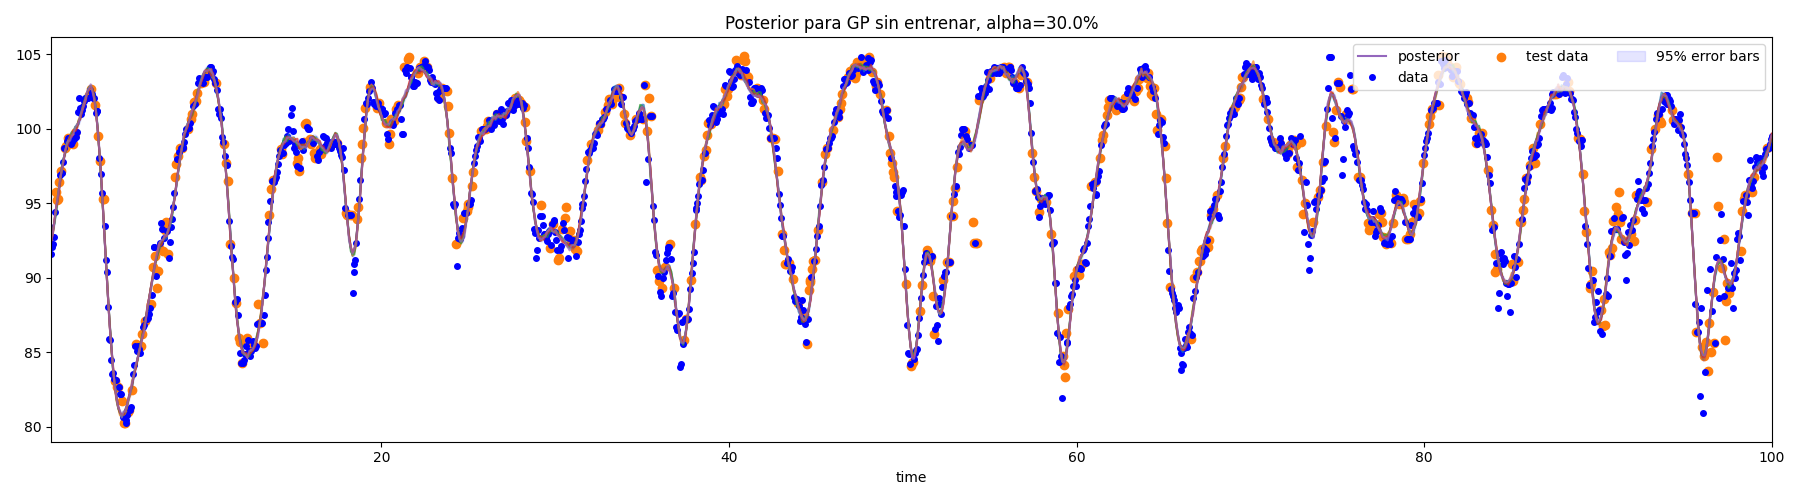
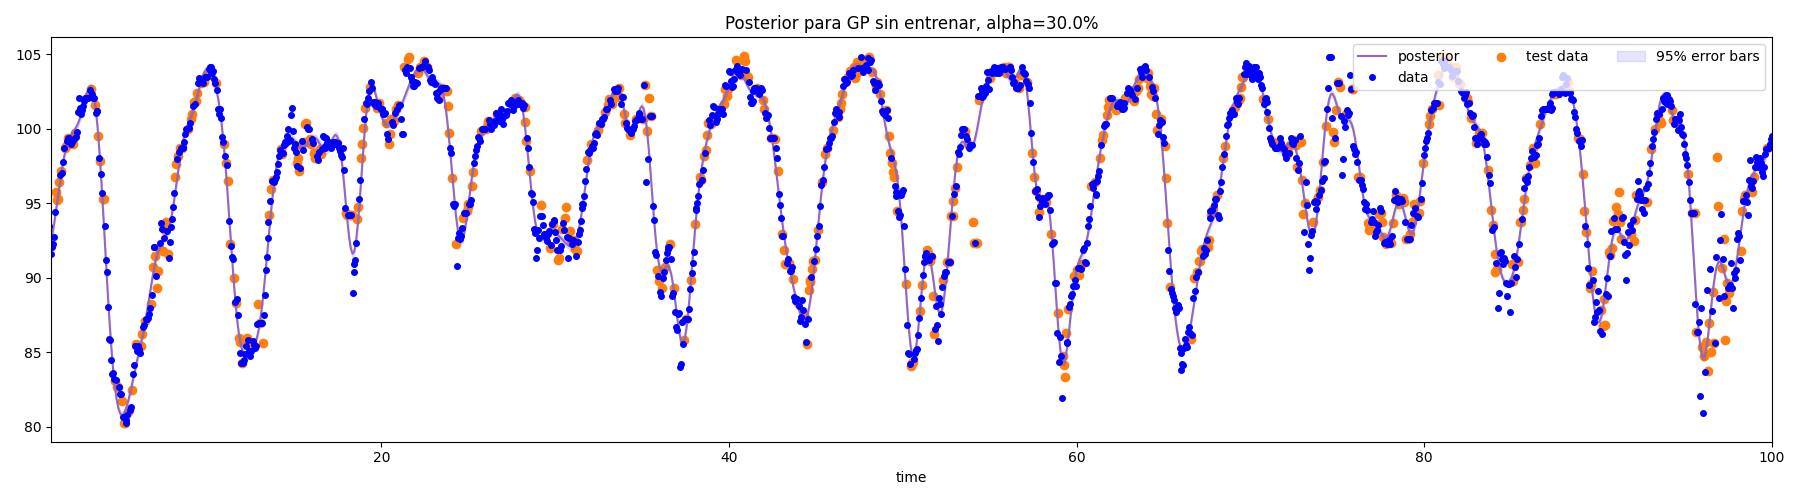
updte plots posterior

diff --git a/unidad_2/tarea_3/graficos_entrega.py b/unidad_2/tarea_3/graficos_entrega.py
@@ -42,7 +42,7 @@ gp.compute_posterior(dimension=1000)
 print(f'negative log-likelihood modelo sin entrenar: {gp.nll()}')
 titulo = "Posterior para GP sin entrenar, alpha={}%".format(ALPHA*100)
 img_file = "untrained_gp_post.png" if save_plots else None
-plot_posterior(gp,5, test_points=hr1[test_ind], test_times=times[test_ind],title=titulo,save=img_file,folder=img_dir)
+plot_posterior(gp,0, test_points=hr1[test_ind], test_times=times[test_ind],title=titulo,save=img_file,folder=img_dir)
 
 
 # Entrenamiento
@@ -54,4 +54,4 @@ if entrenar:
     # gp.plot_posterior(5,v_axis_lims = 35)
     print(f'Negative log-likelihood modelo entrenado: {gp.nll()}')
     img_file = "trained_gp_post.png" if save_plots else None
-    plot_posterior(gp,5, test_points=hr1[test_ind],test_times=times[test_ind],save=img_file,folder=img_dir,title=titulo)
+    plot_posterior(gp,0, test_points=hr1[test_ind],test_times=times[test_ind],save=img_file,folder=img_dir,title=titulo)
